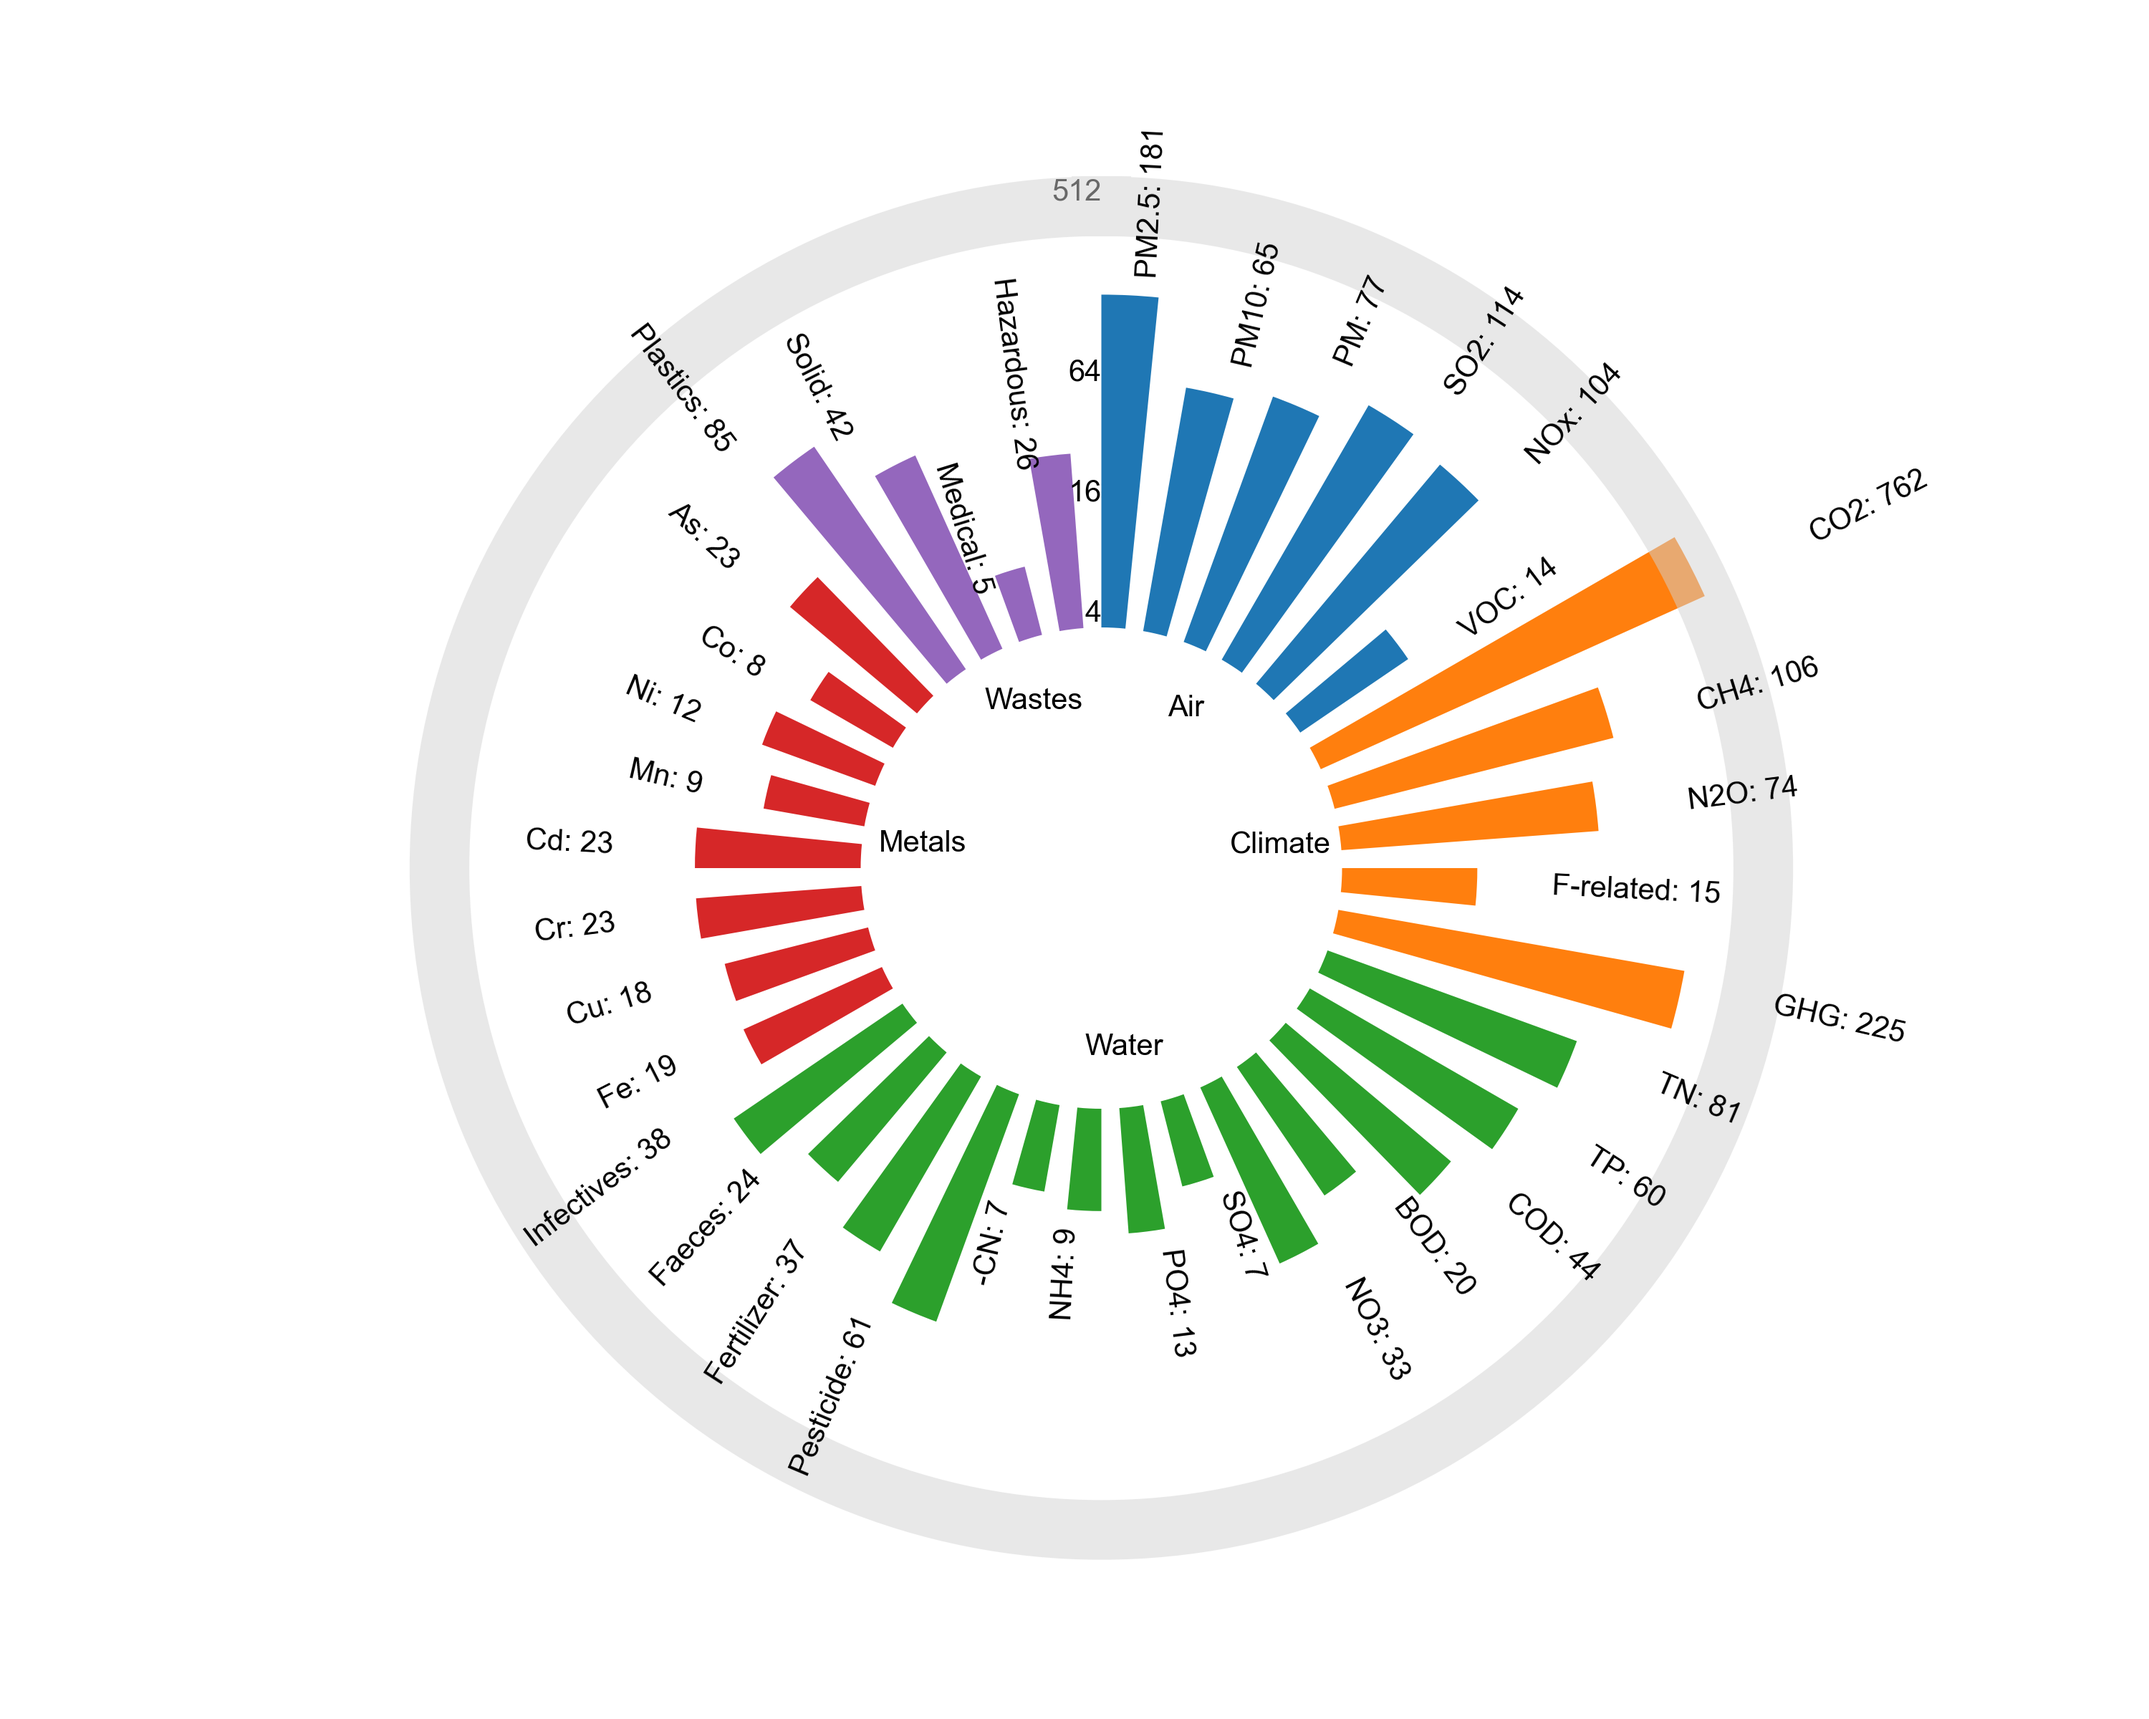
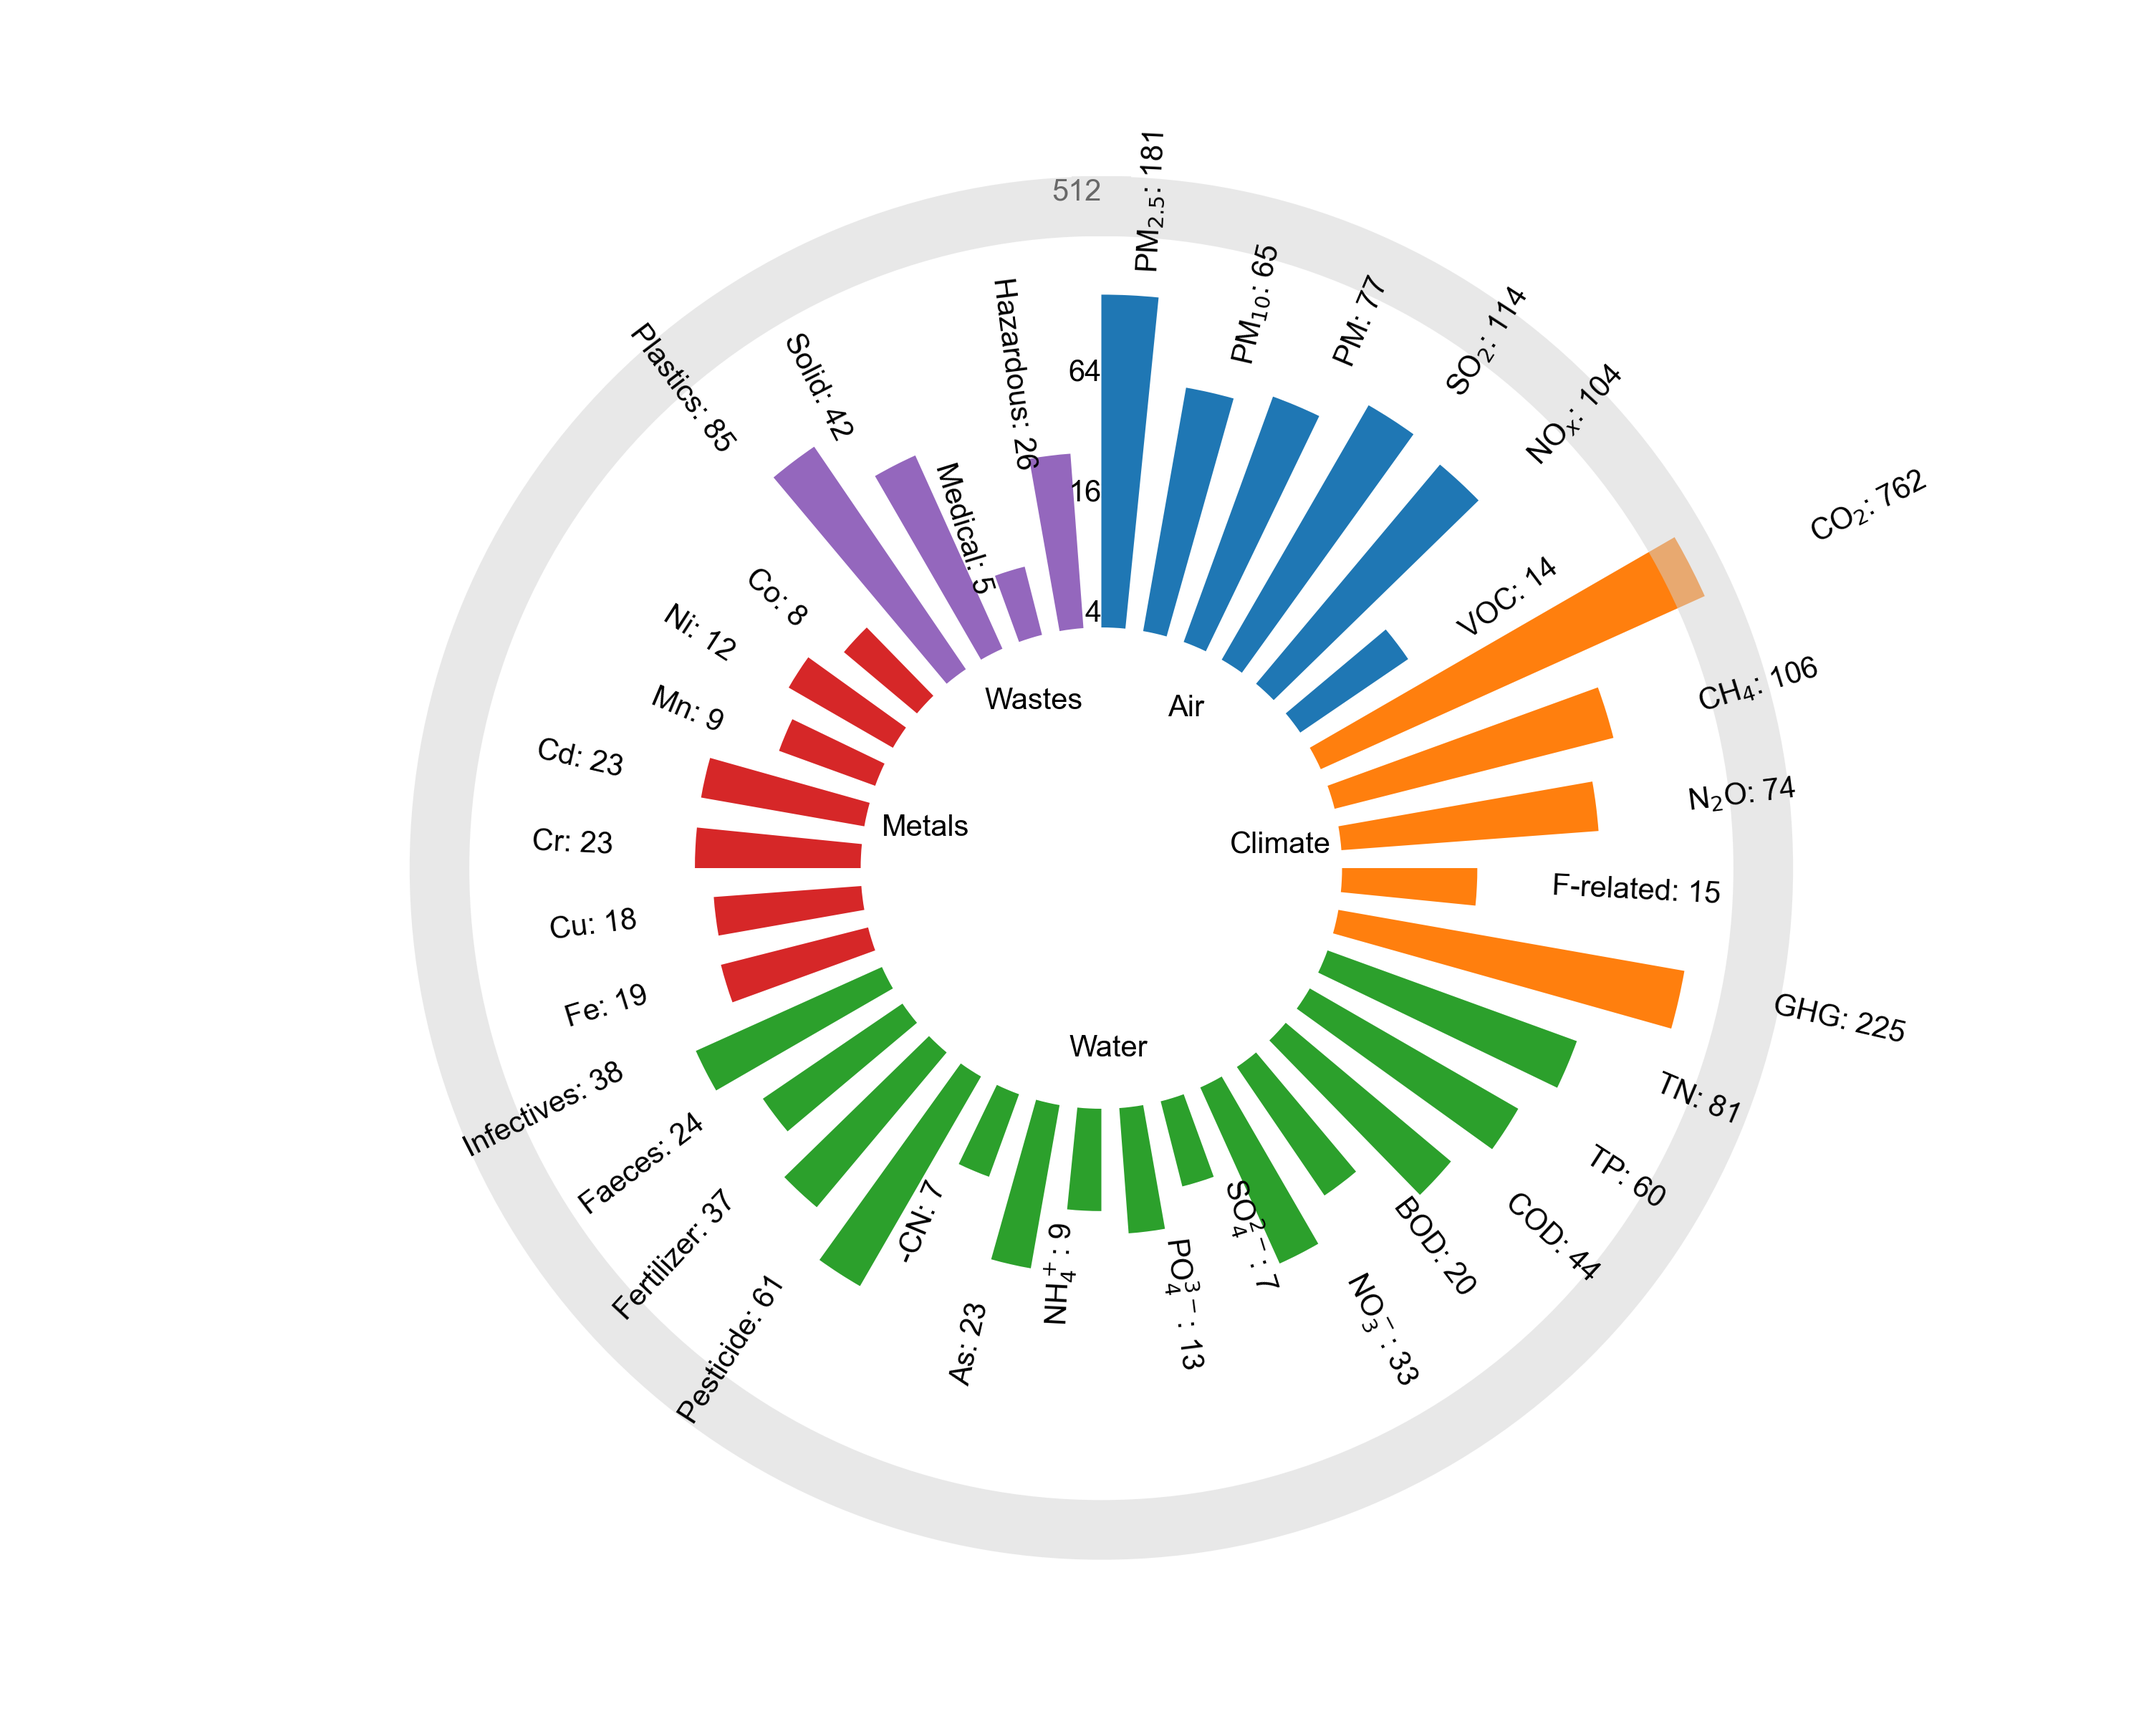
update figure 5

diff --git a/Figure_3_f.py b/Figure_3_f.py
@@ -9,13 +9,13 @@ df = pd.read_excel(r'Included/影响评估_included_zh.xlsx')
 
 air = ['PM2.5', 'PM10', 'PM', 'SO2', 'NOx', 'VOC']
 climate = ['CO2', 'CH4', 'N2O', '氟', 'GHG']
-water = ['TN', 'TP', 'COD', 'BOD', '硝酸盐', '硫酸盐', '磷酸盐', 'NH4', '氰', '农', '肥', '粪', '菌']
-metal = ['Fe', 'Cu', 'Cr', 'Cd', 'Mn', 'Ni', 'Co', 'As']
+water = ['TN', 'TP', 'COD', 'BOD', '硝酸盐', '硫酸盐', '磷酸盐', 'NH4', 'As', '氰', '农', '肥', '粪', '菌']
+metal = ['Fe', 'Cu', 'Cr', 'Cd', 'Mn', 'Ni', 'Co']
 waste = ['塑料', '固体', '医疗', '有害']
 
-air_names = air
-climate_names = ['CO2', 'CH4', 'N2O', 'F-related', 'GHG']
-water_names = ['TN', 'TP', 'COD', 'BOD', 'NO3', 'SO4', 'PO4', 'NH4', '-CN', 'Pesticide', 'Fertilizer', 'Faeces', 'Infectives']
+air_names = ['PM$_{2.5}$', 'PM$_{10}$', 'PM', 'SO$_2$', 'NO$_x$', 'VOC']
+climate_names = ['CO$_2$', 'CH$_4$', 'N$_2$O', 'F-related', 'GHG']
+water_names = ['TN', 'TP', 'COD', 'BOD', 'NO$_3^-$', 'SO$_4^{2-}$', 'PO$_4^{3-}$', 'NH$_4^+$', 'As', '-CN', 'Pesticide', 'Fertilizer', 'Faeces', 'Infectives']
 metal_names = metal
 waste_names = ['Plastics', 'Solid', 'Medical', 'Hazardous']
 
